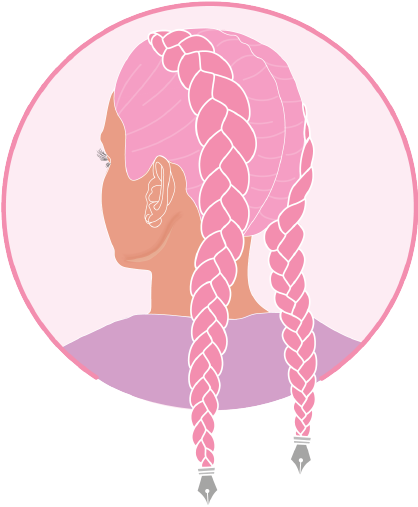
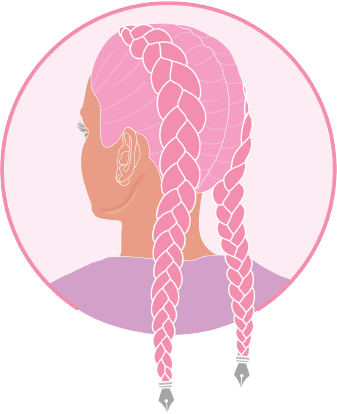
fixing code

diff --git a/style.css b/style.css
@@ -7,6 +7,10 @@
     line-height: 1em;
 }
 
+img{
+    max-width:100%;
+}
+
 body {
     width: 100%;
     font-family: 'acumin-pro-condensed', sans-serif;
@@ -21,7 +25,6 @@ body {
 .header{
     height: 100vh; 
     background-repeat: no-repeat;
-    /*background: linear-gradient(to bottom right, rgba(216,152,210,0.8), rgba(243,142,175,0.6));*/
     background-image: url(icons/continuous.png)
 }
 
@@ -60,26 +63,17 @@ h5 { /*Welcome to my space*/
 p1 { /*I consider myself as*/
     font-size: 35px;
     font-family: 'acumin-pro-condensed', sans-serif;
-    margin-left: 100px;
-    line-height: 50px; /*--- spacing between each line ---*/
+    text-align: right;
 }
 
 h2 { /*UI Designer etc*/
     font-family: 'rift-soft', sans-serif;
     font-weight: normal;
-    text-align: left;
     font-size: 60px;
-}
-
-p { /*new opportunities text*/
-    font-size: 25px;
-    font-family: 'acumin-pro-condensed', sans-serif;
-    padding: 60px 70px;
     text-align: left;
-    background-color: #F38EAF;
 }
 
-h4 { /*My Portfolio*/
+h4 { /*Section Titles - AboutMe/MyPortfolio*/
     font-family: 'rift-soft', sans-serif;
     font-weight: normal;
     text-align: left;
@@ -122,6 +116,28 @@ a:hover {
     color: #F4D7EA;
 }
 
+.button {
+    background-color: #D898D2;
+    padding: 0px 50px;
+    text-align: center;
+    text-decoration: none;
+    display: inline-block;
+    font-size: 30px;
+   	border:3px solid #FDECF3;
+}
+
+.button {
+    background-color: #D898D2;
+    border: 3px solid #FDECF3;
+    padding: 5px 50px;
+    text-align: center;
+    text-decoration: none;
+    display: inline-block;
+    font-size: 30px;
+    margin: 40px;
+    margin-bottom: 60px;
+} 
+
 /*------------------ NAVIGATION -------------------------*/
 
 nav {
@@ -155,85 +171,33 @@ nav a:hover {
 
 /*-------------------- I CONSIDER MYSELF AS - ABOUT ME SECTION ----------------------*/
 
-/*.contain {
-    display:flex;
-    flex-wrap: wrap;
-    justify-content: space-evenly;
-    margin: 120px 50px;}
+div#about {
+    display:grid;
+    grid-template-columns: 14.28% 14.28% 14.28% 14.28% 14.28% 14.28% 14.28%;
+    margin:50px 0px 50px 0px;
+        }
 
-.boox{
-    width:200px;
-    height:180px;
-    border-radius:200px;
-    font-size: 27px;
-    text-align: center;
-    padding:10px;
-    padding-top:120px;
-    margin:20px;
-    background: #F38EAF;
-    width:calc(33.333333% - 100px)
-}*/
+.item {
+    grid-column: 1/5;
+    display: inline-block; 
+    padding-top: 50px;
+    padding-left: 200px;
+        }
+.item2 {
+    grid-column: 5/8;
+    display: inline-block; 
+    padding-right: 200px;
+        }
 
-.padding{
-    margin: 100px 50px;
-}
+/*-------------------- FLEXBOX1 - ABOUT ME ----------------------*/
 
+/*-- About Me Title ---*/
 .border {background: #F38EAF;
-    margin: 0 100px 20px 100px;
-    padding-left: 1em;
-    padding-top: 0.1em;
-    padding-bottom: 0.1em;}
-
-.border2 {background: #F38EAF;
     margin-bottom: 0px;
     padding-left: 70px;
     padding-top: 40px;
     padding-bottom: 30px;
 }
-
-/*------------------- NEW OPPORTUNITIES - ABOUT ME SECTION ------------------*/
-
-.button {
-    background-color: #D898D2;
-    padding: 0px 50px;
-    text-align: center;
-    text-decoration: none;
-    display: inline-block;
-    font-size: 30px;
-   	border:3px solid #FDECF3;
-}
-
-.button {
-    background-color: #D898D2;
-    border: 3px solid #FDECF3;
-    padding: 5px 50px;
-    text-align: center;
-    text-decoration: none;
-    display: inline-block;
-    font-size: 30px;
-    margin: 40px;
-    margin-bottom: 60px;
-} 
-
-#opportunities{
-    display: grid;
-    grid-template-columns: 10% 10% 10% 10% 10% 10% 10% 10% 10% 10%;
-}
-
-.item {
-    grid-column: 1/8;
-    }
-.item2 {
-    grid-column: 8/11;
-    background-color: #F38EAF;
-    padding-top: 70px;
-    padding-left: 28px;
-    }
-
-/*.border2 {background: #F38EAF;
-    padding-bottom:0;}
-
-/*-------------------- FLEXBOX1 - ABOUT ME ----------------------*/
 
 .container {
     display:flex;
@@ -250,8 +214,7 @@ nav a:hover {
 }
 
 .box1, .box2, .box3, .box10, .box11, .box12{
-    padding-top: 10px;
-}
+    padding-top: 10px;}
 
 .box1 img:hover{
     transform: scale(1.05);-webkit-transition: transform .4s; transition-timing-function: ease-in-out;}
@@ -294,11 +257,6 @@ nav a:hover {
     width: 50%/*calc(50% - 40px)*/
 }
 
-.boxx2, .boxx6{
-    text-align:right;
-    display: block;
-}
-
 .boxx1{
     padding-top: 80px;
     padding-left: 70px;
@@ -306,9 +264,15 @@ nav a:hover {
     width: calc(50% - 130px)
 }
 
+.boxx2, .boxx6{
+    text-align:right;
+    display: block;
+}
+
 .boxx4{
     padding-top: 130px;
     padding-left: 50px;
+    padding-right: 80px;
     width: calc(50% - 130px)
 }
 

diff --git a/portfolio.html b/portfolio.html
@@ -28,28 +28,22 @@
             </ul>
         </nav>
         
-<!--
-        <section id="aboutme">
-            <div class="contain">
-            <div class="boox">I consider myself as a<h2>UI DESIGNER</h2> </div>
-            <div class="boox">with a passion for innovative<h2>BRANDING</h2> </div>
-            <div class="boox">and a love for fun<h2>ILLUSTRATIONS</h2> </div>
-            </div>
-        </section>
--->
             
-        <section id="aboutme" class="padding">
-            <p1>I consider myself as a</p1>
-            <h2 class="border">UI DESIGNER</h2> 
-            <p1>with a passion for innovative</p1>
-            <h2 class="border">BRANDING</h2>
-            <p1>and a love for fun</p1>
-            <h2 class="border">ILLUSTRATIONS</h2>
+        <section>
+        <div id="about">
+        
+        <div class="item">
+            <p1>I consider myself as a</p1><h2>UI Designer</h2><br>
+            <p1>with a passion for innovative</p1><h2>Branding</h2><br>
+            <p1>and a love for fun</p1><h2>Illustrations</h2></div>
+        <div class="item2">
+        <img src="icons/minimal%20plaits%20%5BRecovered%5D.png"></div>
+            </div>
         </section>
         
         <section>
             
-            <h4 class="border2">About Me</h4>
+            <h4 class="border">About Me</h4>
             <div class="container">
                 <div class="box box1"><img src="icons/ixddesign.png" alt="Interaction Design Icon"/></div>
                 <div class="box box2"><img src="icons/branding.png" alt="Branding Icon"/></div>
